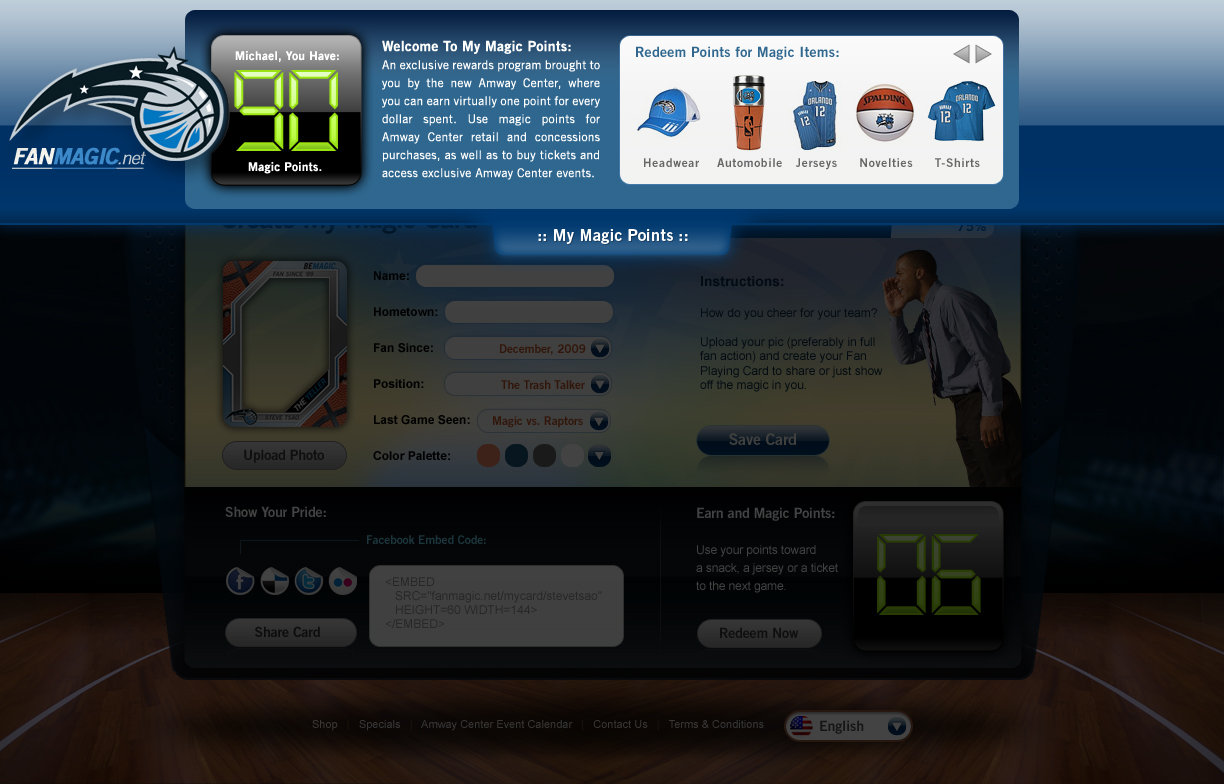
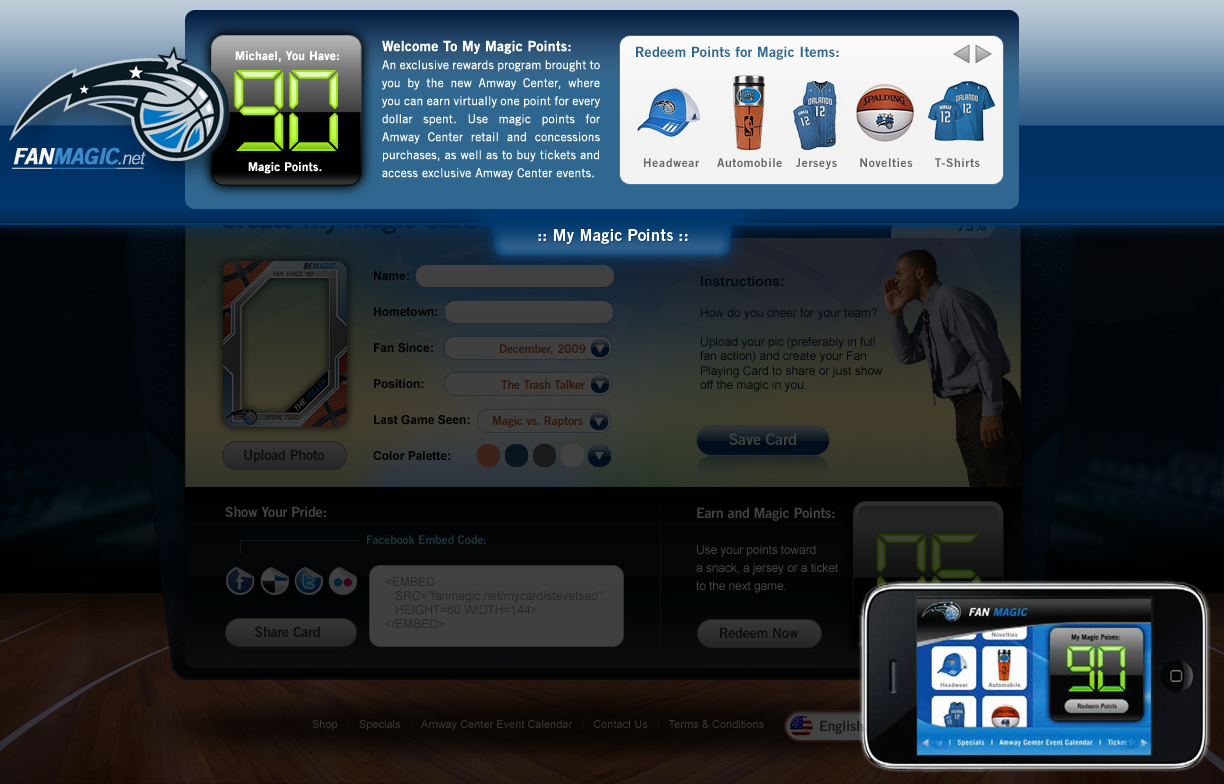
revised mypoints frame with phone

Changed region(s): [[0.683, 0.7347, 0.9935, 1.0]]

diff --git a/orlandomagic.html b/orlandomagic.html
@@ -63,10 +63,6 @@
       <div class="photos">
         <img src="assets/img/imgorlandomagic/fanmagicnet_mypointsopen.jpg"/>
       </div>
- 
-      <div class="bermudaphotos">
-        <img src="assets/img/imgorlandomagic/Orlando_Mobile_App.jpg"/>
-      </div>
 
       <p class="smalltxt spacer"><b>Guerilla & OOH</b></p>
 
